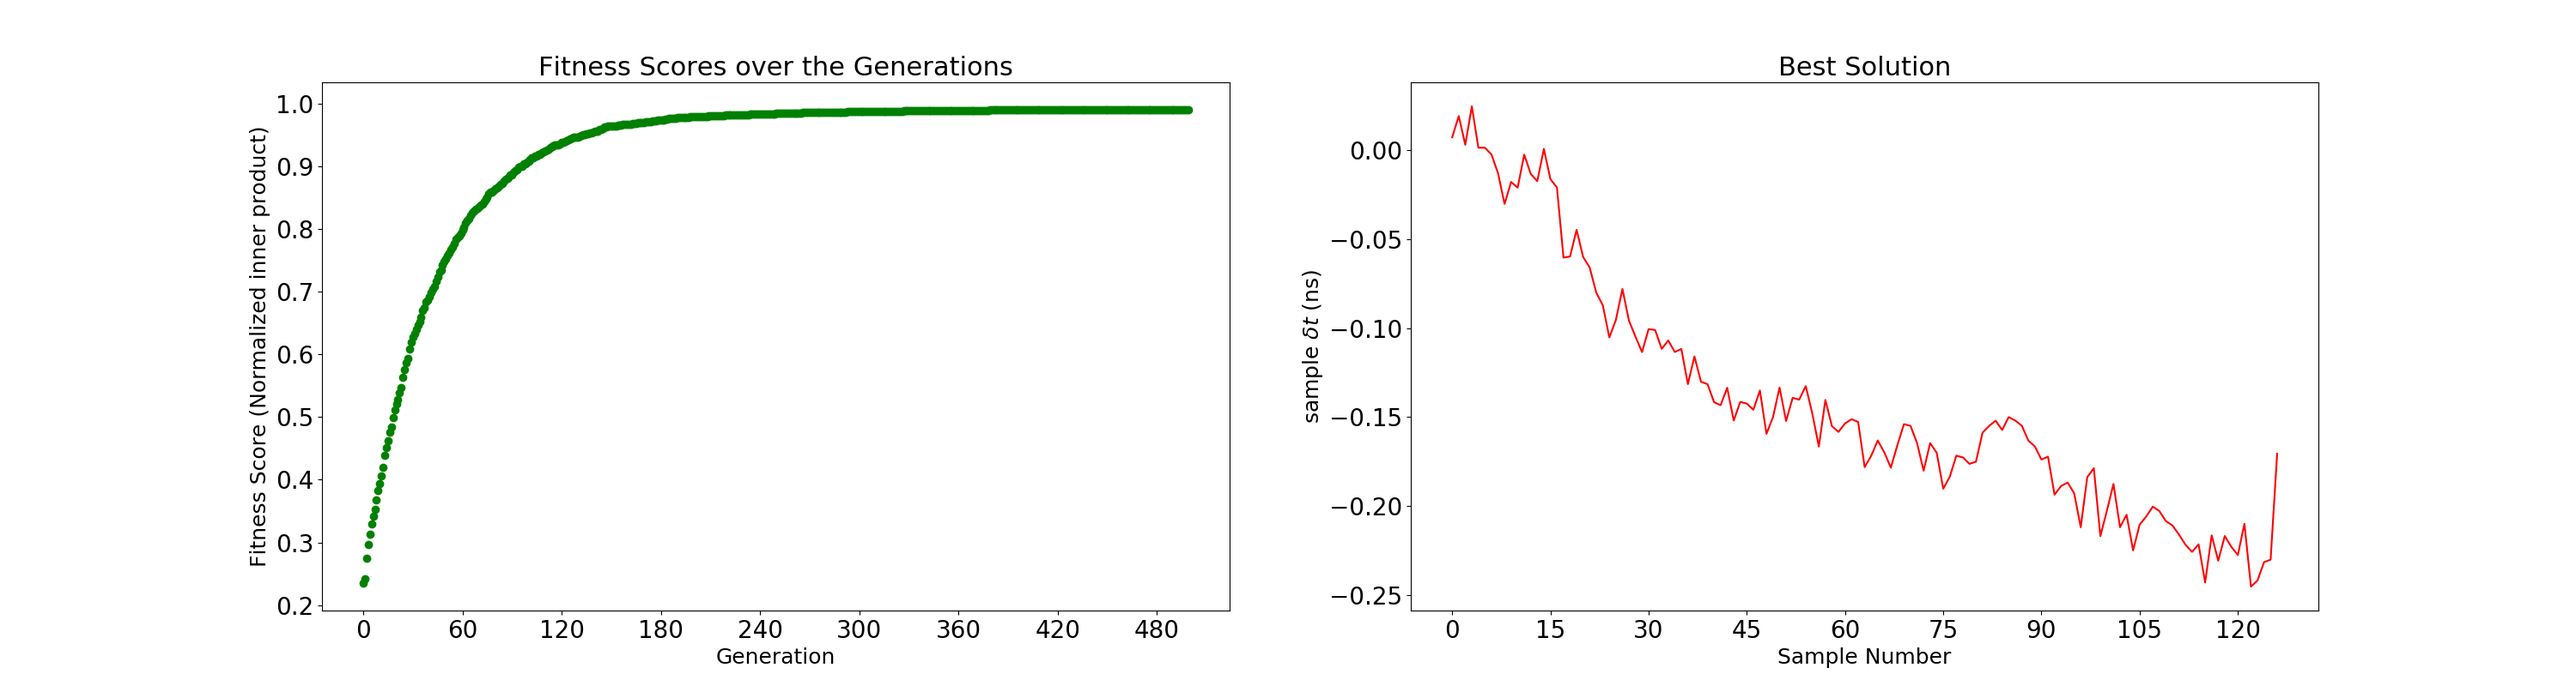
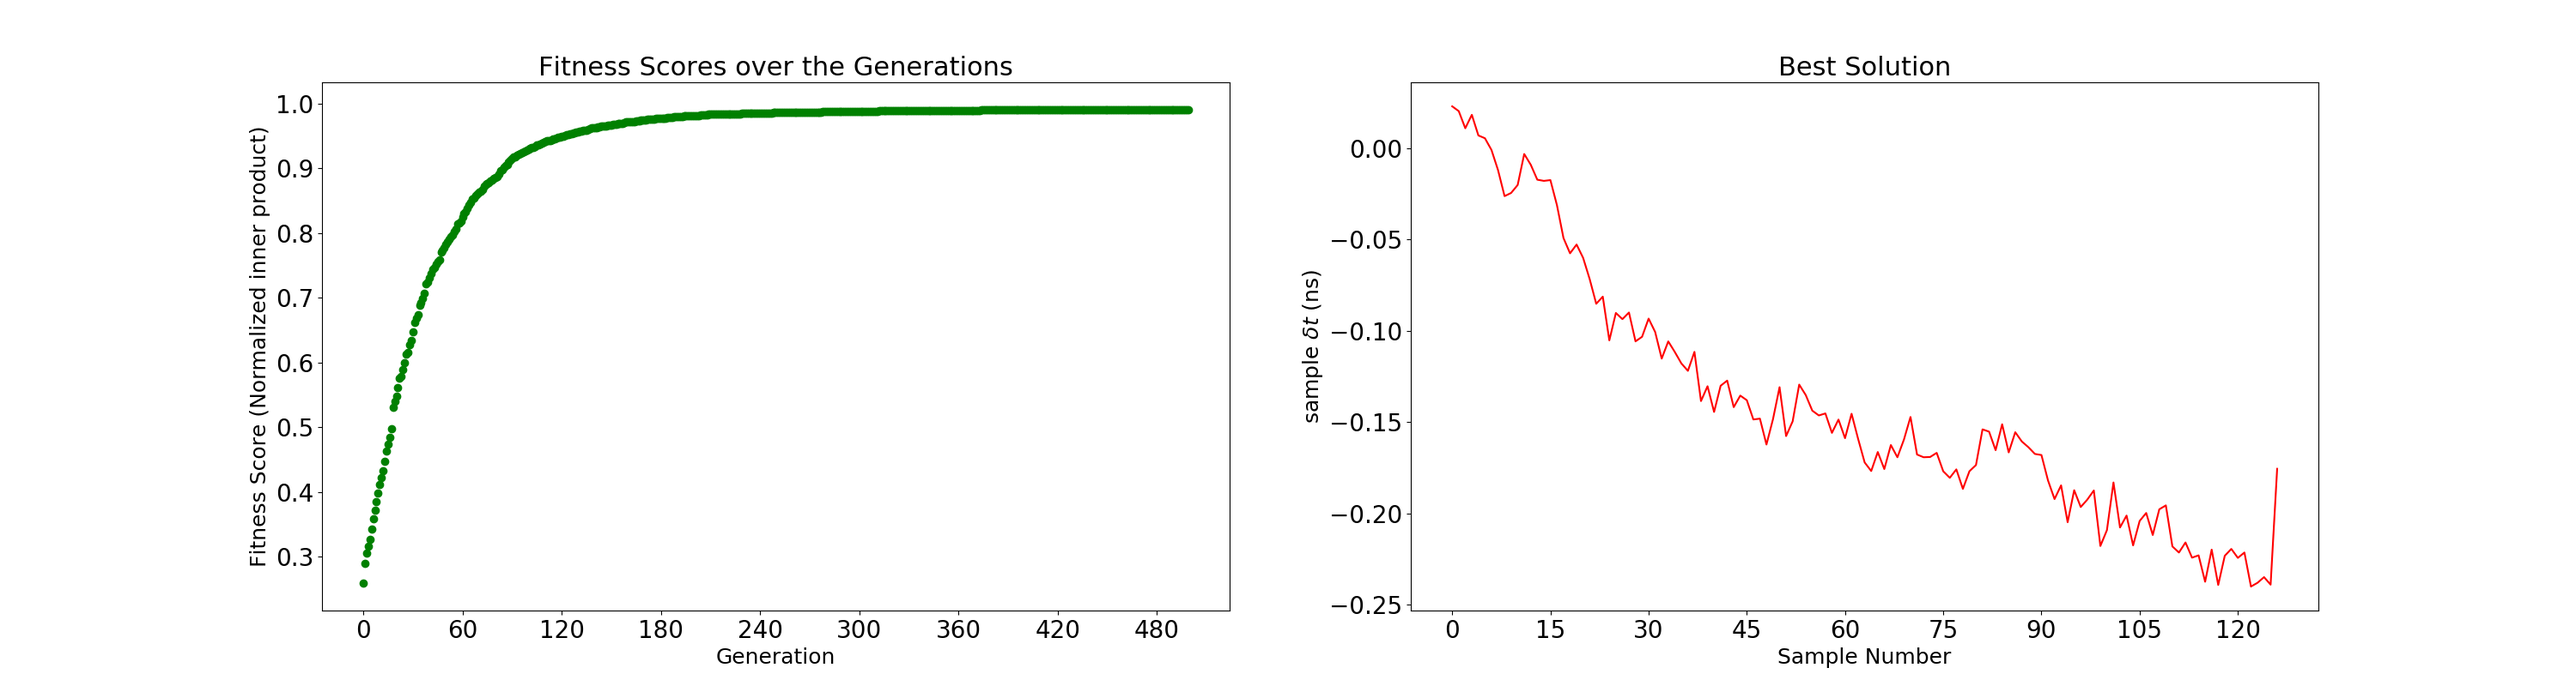
Added the automatic trials feature

diff --git a/calibratorMain.py b/calibratorMain.py
@@ -135,10 +135,25 @@ def main(genMax=100, popMax=50, numNodes=126, fitType=1, 		\
         np.savetxt('results/realScore/'+saveName+'_ch'+str(channel)+ \
         	'_Gen'+str(genMax)+'.csv', rPop[0], delimiter=',')        
     
+    # Save the result in the csv
+    AddToCSV(genMax, popMax, numNodes, fitType, 	\
+    		fitBreakdown, valRange, meanVal,	\
+    		channel,							\
+    		Alg2competitorFrac, 				\
+    		nodesCrossed, Alg3competitorFrac, 	\
+    		Alg4competitorFrac, mutSizeFrac,	\
+    		epsPercent, useAlg5, rScores[0])
+
     # Plot results
     Plot(bestScores, rPop[0], genMax, saveName)
 
     return rScores[0]
+
+
+
+
+
+
 
 def Plot(bestScores, bestIndiv, genMax, saveName):
 	# Plot the result using matplotlib
@@ -326,3 +341,42 @@ def CalcDiversity(indivs, valRange):
     # The number 0.36442 was found by testing diversity/valRange for random 
     # populations and seeing what we got.
     return diversity/(valRange*0.36442)
+
+def AddToCSV(genMax, popMax, numNodes, fitType, 	\
+    		fitBreakdown, valRange, meanVal,	\
+    		channel,							\
+    		Alg2competitorFrac, 				\
+    		nodesCrossed, Alg3competitorFrac, 	\
+    		Alg4competitorFrac, mutSizeFrac,	\
+    		epsPercent, useAlg5, bestScore):
+	
+	import os.path # For checking if indivHistory file exists
+	fileName = 'results/AutoTrials/autoTrials.csv'
+
+	useA5 = 0
+	if useAlg5:
+		useA5 = 1
+
+	header = "genMax, popMax, numNodes, fitType, valRange, meanVal"  \
+			+", Channel, Alg1Numb, Alg2Numb, Alg3Numb, Alg4Numb, " 	 \
+			+"Alg2CompFrac, nodesCrossed, Alg3CompFrac, Alg4CompFrac"\
+			+", mutSizeFrac, useAlg5, epsPercent, bestScore\n"
+
+	data = np.array([genMax, popMax, numNodes, fitType, valRange, 	\
+			meanVal, channel, fitBreakdown[0], fitBreakdown[1], 	\
+			fitBreakdown[2], fitBreakdown[3], Alg2competitorFrac,	\
+			nodesCrossed, Alg3competitorFrac, Alg4competitorFrac,	\
+			mutSizeFrac, useA5, epsPercent, bestScore]).astype(float)
+
+	# # If the file does not exist, add the header
+	if os.path.isfile(fileName) is False: 
+		file = open(fileName, 'w+')
+		file.write(header)
+		file.close()
+	
+	# Append the data
+	file = open(fileName, 'a')
+	np.savetxt(file, [data], delimiter=',')
+	file.close()
+
+	return

diff --git a/calibratorGA.py b/calibratorGA.py
@@ -150,32 +150,34 @@ def Alg4(rScores, rPop, numOffspring, valRange, meanVal, \
 	mutation size fraction) 10 seperate times to obtain 10 offspring. 
 	This whole process is done (numOffspring/10) times.
 	"""
-
 	def GenNewVal(currVal):
-		# Get a random value in range [-1, 1]
-		modulator = (random.random() - 0.5)*2.
-		# Trim mutRange by this value and add it to the current value
-		newVal = currVal + mutRange * modulator
-
-		# If the value lies above the range of accepted values
-		if newVal > meanVal + valRange/2.:
-			# Give it the maximum value instead
-			newVal = meanVal + valRange/2.
-
-		# If the value lies below the range of accepted values 
-		elif newVal < meanVal - valRange/2.:
-			# Give it the minimum value instead
-			newVal = meanVal - valRange/2.
-
-		return newVal
+		"""
+		Find the range of values to choose within, then choose a 
+		random number in this range
+		"""
+		# The expected upper and lower bound are:
+		upperBound = currVal + mutSizeFrac*valRange
+		lowerBound = currVal - mutSizeFrac*valRange
+		# If the upper bound lies above the range of accepted values
+		if upperBound > maxVal:
+			# Set it equal to maxVal
+			upperBound = maxVal
+			print('lower bd')
+		# If the lower bound lies below the range of accepted values 
+		if lowerBound < minVal:
+			# Set it equal to minVal
+			lowerBound = minVal
+			print('upper bd')
+		# Finally, choose a random number in this range
+		return random.uniform(lowerBound, upperBound)
 
 	# Initialize the offspring
 	offspring = np.zeros((numOffspring, rPop.shape[1]))
 	# Calculate the number of competitors
 	numCompetitors = int(competitorFrac*rPop.shape[0])
-	# Calculate the mutation range. Mutations can move the node's 
-	# value by as much as this.
-	mutRange = mutSizeFrac*valRange
+	# Store the max and min values allowed
+	maxVal = meanVal + valRange/2.
+	minVal = meanVal - valRange/2.
 	
 	for i in range(int(numOffspring/10.0)):
 		# We need to perform a tournament selection to get 1 winner 

diff --git a/calibratorUI.py b/calibratorUI.py
@@ -20,7 +20,7 @@ import sys                      # Used to access arguments given by terminal
 saveName = "evolvedValues"
 
 # Maximum number of Generations?
-genMax = 500
+genMax = 10
 
 # Maximum population size?
 popMax = 100
@@ -69,7 +69,7 @@ nodesCrossed = 10
 # Must be divisible by 10 (e.g. 0, 10, 20, 80, etc.)
 Alg4Number = 10
 # What fraction of competitors should alg 4's tournament use?
-Alg4competitorFrac = 0.25
+Alg4competitorFrac = 0.1
 # What fraction of valRange can the node's mutation take?
 mutSizeFrac = 0.1
 
